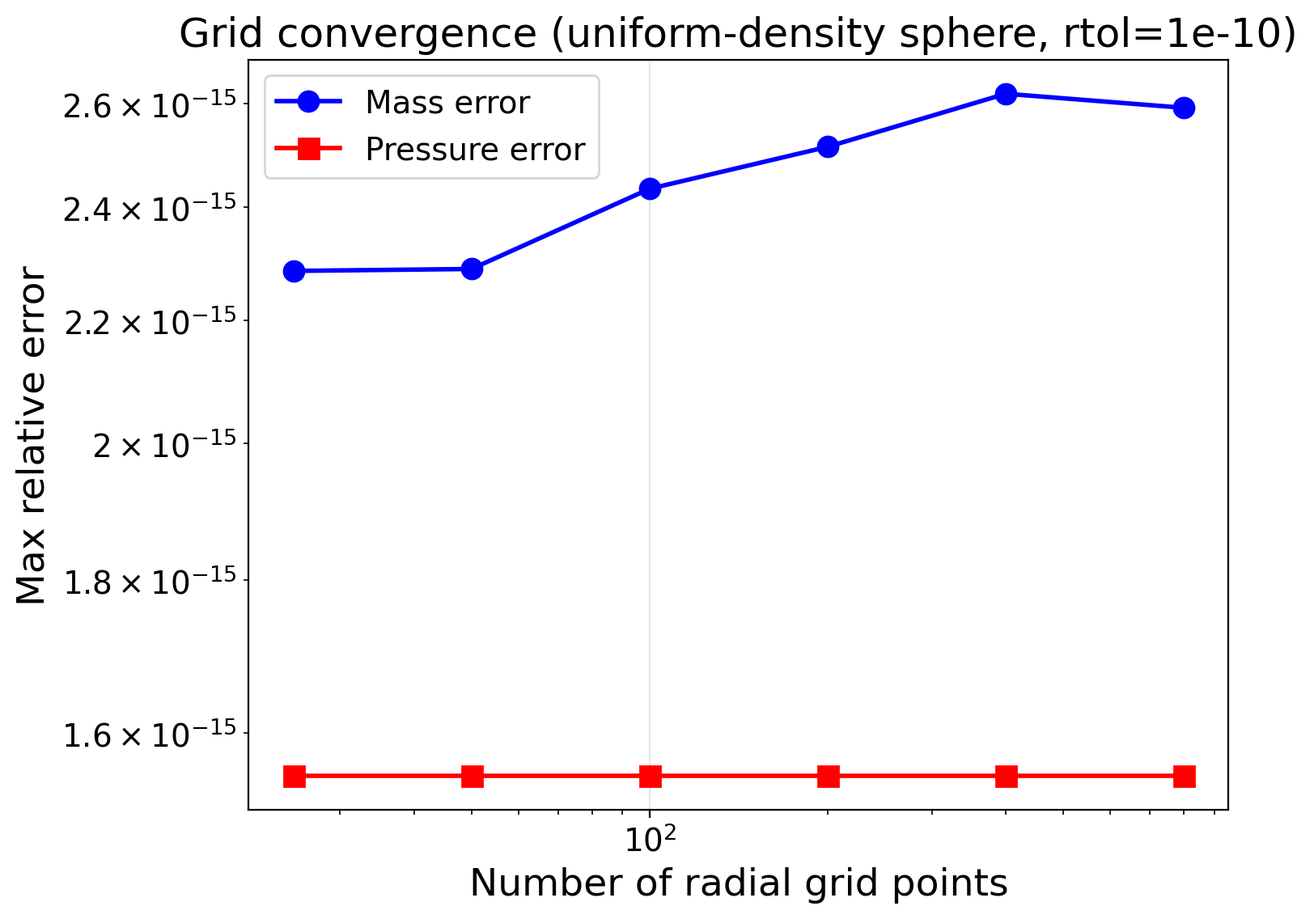
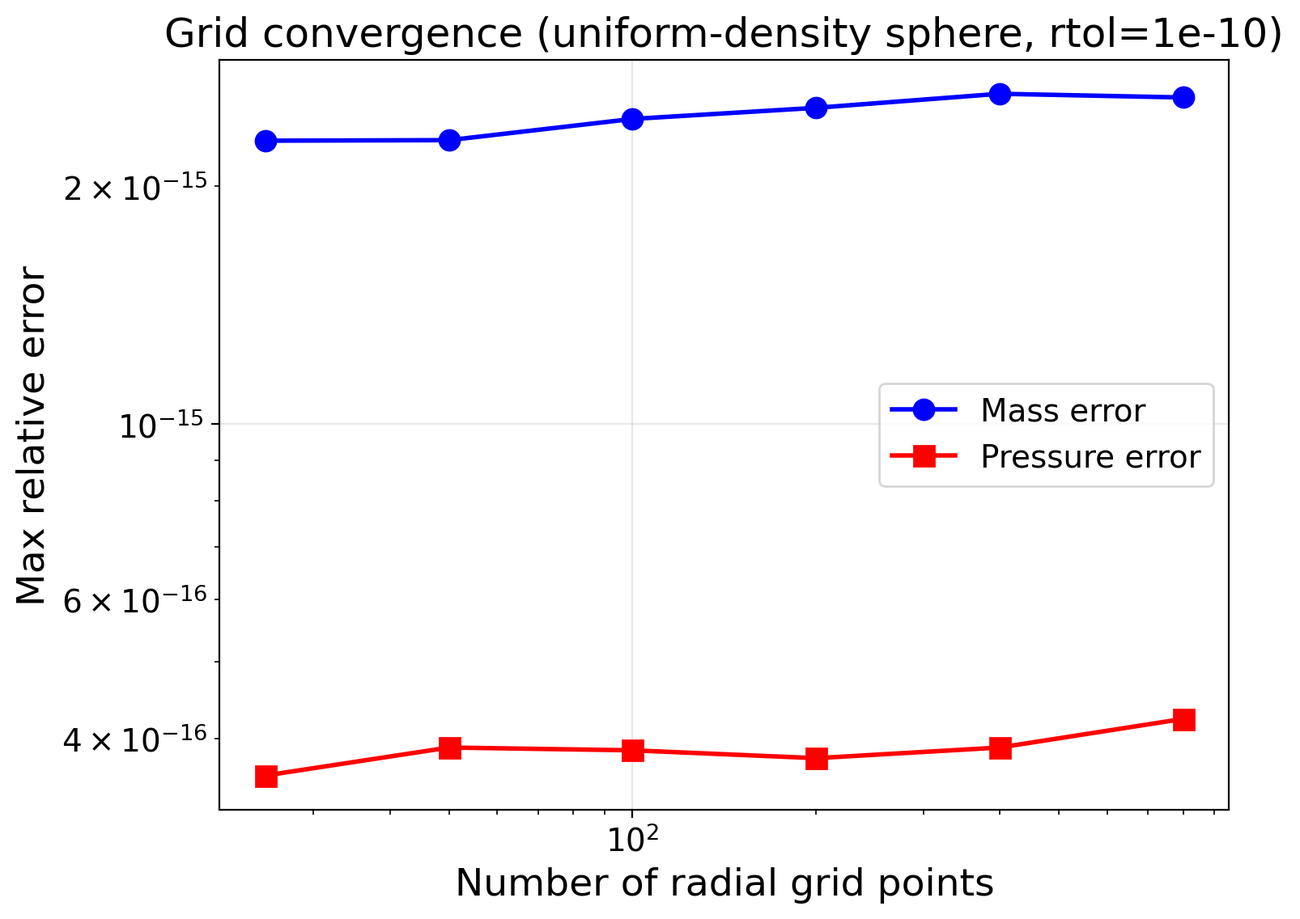
Lay out every hydrostatic structure case for students
Each case of the hydrostatic structure page now says why the check exists, what it tests, how the right answer is known and why it matters, with a reading guide for each plot and the test details in a box; the terms list defines the symbols of the page. The quoted errors match a run of the tests at the tip: the uniform sphere misses by 2e-15 in mass and gravity, the Gauss residual is at most 3.4e-15, the full-solver radius is 0.96512 Earth radii, and the tolerance sweep stays between 2 and 4e-15. The grid convergence figure comes from the current validation script, whose pressure error is about 4e-16. A Known limit states that no case catches a wrong centre limit of dg/dr.

diff --git a/docs/Validation/hydrostatic_structure.md b/docs/Validation/hydrostatic_structure.md
@@ -7,12 +7,19 @@ Validation here means that we run the code on a case where another source gives 
 The test then checks that the code gives that answer within a stated tolerance.
 The right answer comes from closed-form solutions, from conservation laws, from a second implementation of the same equations, or from the pressure that the planet must have at its surface.
 If this part of the code is wrong, every structure that Zalmoxis returns is wrong, also the structures it gives to PROTEUS: the radius of the planet and the pressure and gravity at each depth.
-The cases on the surface boundary condition say why the check exists, what it tests, how we know the right answer and why it matters.
-Their box "Test details" gives the reference, the tolerance, the test id and the command.
+Each case below says why the check exists, what it tests, how we know the right answer and why it matters.
+The box "Test details" at the end of each case gives the reference, the tolerance, the test id and the command.
 The [overview](index.md) lists every case of the tab.
 
-**Terms of the surface boundary cases.**
+**Terms of this page.**
 
+- $r$ and $R$: the radius, from 0 at the centre, and the outer radius of the planet.
+- $M(r)$, $g(r)$, $P(r)$, $\rho(r)$: the mass inside radius $r$ (the enclosed mass, kg), the gravitational acceleration (m/s$^2$), the pressure (Pa) and the density (kg/m$^3$) at radius $r$; $G$ is the gravitational constant.
+- EOS (equation of state): the relation $\rho(P, T)$ between the density, the pressure and the temperature of a material.
+- CMB: the core-mantle boundary.
+- $N$ and `rtol`: the number of radial grid points, and the relative tolerance of the ODE integrator (RK45, an adaptive Runge-Kutta method of order 4 and 5).
+- Relative error: $|x_\mathrm{num} - x_\mathrm{exact}| / |x_\mathrm{exact}|$, the difference between the computed and the exact value, divided by the exact value.
+- Round-off level: a relative error of about $10^{-16}$ to $10^{-13}$, the size of the rounding error of floating-point arithmetic. A result at this level is exact within the precision of the computer.
 - Central pressure $P_c$: the pressure at the centre of the planet, the unknown of the pressure solve.
 - Residual $f(P_c) = P(R) - P_t$: the pressure $P(R)$ at the outer radius $R$ minus the target surface pressure $P_t$.
 - Reached: the integration from a trial $P_c$ reaches the outer radius.
@@ -25,7 +32,8 @@ The [overview](index.md) lists every case of the tab.
 
 ## Governing equations
 
-Zalmoxis solves three coupled ordinary differential equations for the radial structure of a self-gravitating, spherically symmetric body in hydrostatic equilibrium:
+Every case on this page checks one part of the solution of these equations.
+Zalmoxis solves three coupled ordinary differential equations (ODEs) for the radial structure of a self-gravitating, spherically symmetric body in hydrostatic equilibrium:
 
 $$
 \frac{dM}{dr} = 4\pi r^2 \rho(r)
@@ -39,19 +47,30 @@ $$
 \frac{dP}{dr} = -\rho(r)\, g(r)
 $$
 
-where $M(r)$ is the enclosed mass, $g(r)$ is gravitational acceleration, $P(r)$ is pressure, and $\rho(r)$ is density. These are integrated outward from the center ($r = 0$) with initial conditions $M(0) = 0$, $g(0) = 0$, $P(0) = P_c$.
+The first equation adds the mass of each thin shell, the second gives the gravity from the enclosed mass, and the third says that the pressure falls outward by the weight of the material above.
+The integration runs outward from the centre ($r = 0$) with the initial conditions $M(0) = 0$, $g(0) = 0$ and $P(0) = P_c$.
 
-Note that the gravity equation is singular at $r = 0$ due to the $2g/r$ term. L'Hopital's rule gives the analytic limit $dg/dr|_{r=0} = \frac{4}{3}\pi G \rho_c$, which `coupled_odes` in `zalmoxis.structure_model` uses at $r = 0$.
+The gravity equation is singular at $r = 0$ because of the $2g/r$ term.
+L'Hopital's rule gives the limit $dg/dr|_{r=0} = \frac{4}{3}\pi G \rho_c$, and `coupled_odes` in `zalmoxis.structure_model` uses this limit at $r = 0$.
 
-The system is closed by an equation of state $\rho = \rho(P, T)$, but for verification purposes we either fix $\rho$ to a constant (Tests 1-4) or use the Seager et al. (2007) analytic polytrope $\rho(P) = \rho_0 + c P^n$ (Tests 5-7), both of which eliminate any dependence on tabulated EOS data.
+An equation of state $\rho = \rho(P, T)$ closes the system.
+To check the equations without table data, Tests 1 to 4 fix $\rho$ to a constant, and Tests 5 to 7 use the Seager et al. (2007) analytic polytrope $\rho(P) = \rho_0 + c P^n$.
+Tests 5 and 6 are on the [mass-radius page](mass_radius.md).
 
 ## Test 1: Uniform-density sphere
 
-**What it tests:** The ODE integrator in complete isolation from any EOS complexity. By patching `calculate_mixed_density()` to return a constant, we test only the RK45 integration of the three coupled ODEs.
+**Why this check exists.** The integrator of the three equations must use the right coefficients and signs. A wrong factor in $dM/dr$ or $dg/dr$ (for example $2\pi$ in place of $4\pi$, or $g/r$ in place of $2g/r$), or the wrong sign of $dP/dr$, makes the computed mass, gravity or pressure differ from the exact solution, and this test fails.
 
-**Why it matters:** If the ODE coefficients (the $4\pi$ factors, the $2g/r$ singularity handling at $r = 0$, the signs) contain any error, this test will catch it with zero ambiguity. The analytic solution is a textbook result with no free parameters.
+**What it tests.** The density is fixed: the test replaces `calculate_mixed_density()` by a function that returns a constant $\rho$, so no EOS table is used and only the RK45 integration of the three equations is tested. The setup is $\rho = 5000$ kg/m$^3$ (an average rocky planet), $R = 6.4 \times 10^6$ m (about $1\, R_\oplus$), $P_c = 360$ GPa, $N = 300$ radial grid points and `rtol` $= 10^{-10}$. The test makes six checks:
 
-For a sphere of constant density $\rho$, the governing equations have exact closed-form solutions:
+1. **Mass profile:** $|M_\mathrm{num} - M_\mathrm{exact}| / M_\mathrm{exact} < 10^{-6}$ at all $r > 0$.
+2. **Gravity profile:** $|g_\mathrm{num} - g_\mathrm{exact}| / g_\mathrm{exact} < 10^{-6}$ at all $r > 0$.
+3. **Pressure profile:** $|P_\mathrm{num} - P_\mathrm{exact}| / P_\mathrm{exact} < 10^{-6}$ where $P > 0$.
+4. **Central boundary conditions:** $M(0) = 0$, $g(0) = 0$ and $P(0) = P_c$ to machine precision.
+5. **Gravity slope at the centre:** the slope of the computed gravity over the first two grid steps matches $\frac{4}{3}\pi G \rho$ to $< 10^{-4}$.
+6. **Pressure monotonicity:** $dP/dr < 0$ everywhere $P > 0$, as hydrostatic equilibrium requires with positive density and gravity.
+
+**How we know the right answer.** For a sphere of constant density the equations have an exact closed-form solution, a textbook result with no free parameters:
 
 $$
 M(r) = \frac{4}{3}\pi \rho\, r^3, \qquad
@@ -59,41 +78,35 @@ g(r) = \frac{4}{3}\pi G \rho\, r, \qquad
 P(r) = P_c - \frac{2}{3}\pi G \rho^2 r^2
 $$
 
-The mass grows as $r^3$ (volume of a sphere), gravity is linear in $r$ (Gauss's law for a uniform sphere), and pressure is a downward parabola (hydrostatic equilibrium with linearly increasing gravity).
+The mass grows as $r^3$ (the volume of a sphere), gravity is linear in $r$ (Gauss's law for a uniform sphere), and the pressure falls as a parabola (hydrostatic equilibrium with a gravity that grows linearly).
 
-**Setup:** $\rho = 5000$ kg/m$^3$ (representative rocky planet average), $R = 6.4 \times 10^6$ m ($\approx 1\, R_\oplus$), $P_c = 360$ GPa, $N = 300$ radial grid points, `rtol` $= 10^{-10}$.
+**Why it matters.** Every structure that Zalmoxis returns comes from this integrator. An error here enters every profile, for every equation of state.
 
-**Results:** At $N = 300$ the largest relative errors are $3 \times 10^{-15}$ for the mass, $1 \times 10^{-15}$ for gravity and $4 \times 10^{-16}$ for pressure, the round-off level; the test asserts $< 10^{-6}$. The curves are visually indistinguishable:
+![Uniform-density sphere: mass, gravity and pressure against radius, numerical and analytic](../img/validation/uniform_sphere_profiles.png)
 
-![Uniform-density sphere profiles](../img/validation/uniform_sphere_profiles.png)
+**How to read the plot.** The three panels show (a) the enclosed mass, (b) the gravity and (c) the pressure against the radius in km. The solid line is the numerical solution and the dashed line is the analytic solution. A pass means that the two lines lie on top of each other. At $N = 300$ the largest relative errors are $2 \times 10^{-15}$ for the mass and the gravity and $4 \times 10^{-16}$ for the pressure, the round-off level.
 
-Six individual assertions verify specific aspects:
+**Known limit.** This test does not check the value of the centre limit of $dg/dr$: when `coupled_odes` uses $\pi G \rho_c$ in place of $\frac{4}{3}\pi G \rho_c$ at $r = 0$, every case on this page still passes.
 
-1. **Mass profile accuracy:** $|M_\mathrm{num} - M_\mathrm{exact}| / M_\mathrm{exact} < 10^{-6}$ at all $r > 0$
-2. **Gravity profile accuracy:** $|g_\mathrm{num} - g_\mathrm{exact}| / g_\mathrm{exact} < 10^{-6}$ at all $r > 0$
-3. **Pressure profile accuracy:** $|P_\mathrm{num} - P_\mathrm{exact}| / P_\mathrm{exact} < 10^{-6}$ where $P > 0$
-4. **Central boundary conditions:** $M(0) = 0$, $g(0) = 0$, $P(0) = P_c$ to machine precision
-5. **Gravity slope at center:** $dg/dr|_{r=0}$ matches the analytic limit $\frac{4}{3}\pi G \rho$ to $< 10^{-4}$, verifying the singularity handling
-6. **Pressure monotonicity:** $dP/dr < 0$ everywhere $P > 0$, as required by hydrostatic equilibrium with positive density and gravity
-
-- Reference: closed-form solution of the uniform-density sphere
-- Tolerance: `rtol=1e-6` on the mass, gravity and pressure profiles; `rel=1e-4` on the central gravity slope
-- Test id: `tests/test_first_principles.py::TestUniformDensitySphere`
-- Command: `pytest -o "addopts=" tests/test_first_principles.py::TestUniformDensitySphere`
+??? info "Test details"
+    - Reference: closed-form solution of the uniform-density sphere
+    - Tolerance: `rtol=1e-6` on the mass, gravity and pressure profiles; `rel=1e-4` on the central gravity slope
+    - Test id: `tests/test_first_principles.py::TestUniformDensitySphere`
+    - Command: `pytest -o "addopts=" tests/test_first_principles.py::TestUniformDensitySphere`
 
 ## Test 2: Two-layer sphere
 
-**What it tests:** The layer transition logic at the core-mantle boundary (CMB). Zalmoxis assigns each radial shell to a layer (core or mantle) based on the enclosed mass. A density discontinuity at the CMB is the sharpest feature the integrator must handle, and errors in the boundary comparison (e.g., off-by-one in the mass threshold, wrong tolerance for floating-point comparison) would produce visible deviations from the piecewise analytical solution.
+**Why this check exists.** Zalmoxis assigns each radial shell to a layer (core or mantle) by the enclosed mass. If this assignment is wrong, for example if the core ends at 90 % of its mass, the mass profile differs from the piecewise exact solution and this test fails. Wrong coefficients in $dM/dr$ or $dg/dr$ also make it fail.
 
-**Setup:** A two-layer sphere with constant densities $\rho_c = 13{,}000$ kg/m$^3$ (iron-like core) and $\rho_m = 4000$ kg/m$^3$ (silicate-like mantle), $M_p = 1\, M_\oplus$, core mass fraction $f_c = 0.325$. The CMB radius is:
+**What it tests.** A sphere of two layers with constant densities: $\rho_c = 13{,}000$ kg/m$^3$ (an iron-like core) and $\rho_m = 4000$ kg/m$^3$ (a silicate-like mantle), with planet mass $M_p = 1\, M_\oplus$ and core mass fraction $f_c = 0.325$. The density jumps at the core-mantle boundary (CMB), the sharpest feature that the integrator must handle. The CMB radius is
 
 $$
 R_\mathrm{cmb} = \left(\frac{3\, f_c\, M_p}{4\pi \rho_c}\right)^{1/3} = 3291 \text{ km}
 $$
 
-This is close to Earth's actual CMB radius of 3480 km, and the total planet radius is 6513 km (1.02 times 6371 km). The central pressure of this profile, 380 GPa, comes from integrating the hydrostatic equation over the known density profile; the integration starts at 5% above it, 399 GPa, so that the pressure stays positive out to the surface.
+This is close to the Earth's CMB radius of 3480 km, and the planet radius is 6513 km (1.02 times 6371 km). The central pressure of this profile, 380 GPa, comes from integrating the hydrostatic equation over the known density profile. The integration starts 5 % above it, at 399 GPa, so that the pressure stays positive out to the surface. The test compares the enclosed mass with the exact solution and checks Gauss's law ($g = GM/r^2$) in both layers.
 
-The enclosed mass profile is piecewise:
+**How we know the right answer.** With two constant densities, the enclosed mass has an exact piecewise solution:
 
 $$
 M(r) = \begin{cases}
@@ -102,94 +115,108 @@ f_c M_p + \frac{4}{3}\pi \rho_m (r^3 - R_\mathrm{cmb}^3) & r > R_\mathrm{cmb}
 \end{cases}
 $$
 
-**Results:** The largest relative error of the mass profile against the piecewise formula is $3 \times 10^{-9}$, and Gauss's law ($g = GM/r^2$) holds to $1 \times 10^{-10}$ across both layers including the CMB transition; the test asserts $< 10^{-5}$ and $< 10^{-4}$. The left panel shows the mass profile with the CMB location marked; the right panel overlays the numerical gravity with the Gauss's law prediction:
+**Why it matters.** Every Zalmoxis planet has at least a core and a mantle. A wrong layer boundary puts the wrong material at a radius, so the density, the radius and the pressure at the CMB are wrong.
 
-![Two-layer sphere](../img/validation/two_layer_sphere.png)
+![Two-layer sphere: enclosed mass against the piecewise solution, and gravity against Gauss's law](../img/validation/two_layer_sphere.png)
 
-The smooth transition across the CMB confirms that `get_layer_mixture()` correctly assigns shells to layers and that the ODE integrator handles the density discontinuity without introducing spurious oscillations.
+**How to read the plot.** Panel (a) shows the enclosed mass against the radius in km, numerical (solid) and analytic (dashed), with the CMB as a dotted line. Panel (b) shows the numerical gravity and $GM(r)/r^2$. A pass means that the lines lie on top of each other on both sides of the CMB. The largest relative error of the mass is $3 \times 10^{-9}$, and Gauss's law holds to $1 \times 10^{-10}$ in both layers, so `get_layer_mixture()` assigns the shells correctly and the integrator crosses the density jump without oscillations.
 
-- Reference: piecewise closed-form solution of the two-layer sphere
-- Tolerance: `rtol=1e-5` on the mass profile, `rtol=1e-4` on Gauss's law
-- Test id: `tests/test_first_principles.py::TestTwoLayerSphere`
-- Command: `pytest -o "addopts=" tests/test_first_principles.py::TestTwoLayerSphere`
+??? info "Test details"
+    - Reference: piecewise closed-form solution of the two-layer sphere
+    - Tolerance: `rtol=1e-5` on the mass profile, `rtol=1e-4` on Gauss's law
+    - Test id: `tests/test_first_principles.py::TestTwoLayerSphere`
+    - Command: `pytest -o "addopts=" tests/test_first_principles.py::TestTwoLayerSphere`
 
 ## Test 3: Conservation diagnostics
 
-**What it tests:** Pointwise satisfaction of two fundamental conservation laws that must hold for any physically consistent solution, independent of the EOS.
+**Why this check exists.** Zalmoxis integrates $M(r)$ and $g(r)$ as two separate ODE components; it does not compute $g$ from $M$. A wrong factor in $dM/dr$ or $dg/dr$ makes them disagree, and the Gauss's law check fails. A wrong sign of $dP/dr$ breaks hydrostatic balance, and the balance check fails.
 
-**Gauss's law:** $g(r) = G\,M(r) / r^2$ for all $r > 0$. This is an algebraic identity relating the gravitational acceleration to the enclosed mass. Since Zalmoxis integrates both $M(r)$ and $g(r)$ as separate ODE components (rather than computing $g$ algebraically from $M$), any drift in the integration would cause the two to disagree. The relative residual $|g - GM/r^2| / (GM/r^2)$ quantifies this drift.
+**What it tests.** Two conservation laws must hold at every point of any physically consistent solution, for any EOS. The test checks them on the uniform-density sphere of Test 1.
 
-**Hydrostatic balance:** $dP/dr + \rho\, g = 0$ at every interior point. This is the defining equation of the solver; the residual is evaluated with central finite differences. For the uniform sphere $P(r)$ is a parabola, so the central difference is exact and the residual shows the integration error alone.
+- **Gauss's law:** $g(r) = G\,M(r) / r^2$ for all $r > 0$. The relative residual $|g - GM/r^2| / (GM/r^2)$ measures how far the two integrated components drift apart.
+- **Hydrostatic balance:** $dP/dr + \rho\, g = 0$ at every interior point. This is the defining equation of the solver. The test computes $dP/dr$ by central finite differences and divides the residual by $P_\mathrm{scale} = \frac{2}{3}\pi G \rho^2 R$. For the uniform sphere $P(r)$ is a parabola, so the central difference is exact and the residual shows the integration error alone.
 
-**Results:** Both residuals are at round-off level at all radii, far below the asserted $10^{-5}$ and $10^{-4}$:
+**How we know the right answer.** Gauss's law and hydrostatic balance follow from the equations themselves, so the exact residual is zero.
 
-![Conservation diagnostics](../img/validation/conservation_diagnostics.png)
+**Why it matters.** These laws must hold for every planet that Zalmoxis computes, also where no closed-form solution exists.
 
-On the 500-point grid of the figure, the Gauss's law residual (left) is at most $2.7 \times 10^{-15}$ and the hydrostatic residual (right) at most $1.4 \times 10^{-13}$.
+![Conservation diagnostics: Gauss's law residual and hydrostatic balance residual against radius](../img/validation/conservation_diagnostics.png)
 
-- Reference: Gauss's law $g = GM/r^2$ and hydrostatic balance $dP/dr + \rho g = 0$
-- Tolerance: `rtol=1e-5` on Gauss's law, largest relative hydrostatic residual below `1e-4`
-- Test id: `tests/test_first_principles.py::TestGaussLaw`, `tests/test_first_principles.py::TestHydrostaticBalance`
-- Command: `pytest -o "addopts=" tests/test_first_principles.py::TestGaussLaw tests/test_first_principles.py::TestHydrostaticBalance`
+**How to read the plot.** Panel (a) shows the relative Gauss's law residual and panel (b) the relative hydrostatic residual against the radius in km, on log scales. A pass means that both stay far below the tolerances of $10^{-5}$ and $10^{-4}$. On the 500-point grid of the figure the Gauss's law residual is at most $3.4 \times 10^{-15}$ and the hydrostatic residual at most $1.4 \times 10^{-13}$, the round-off level.
+
+??? info "Test details"
+    - Reference: Gauss's law $g = GM/r^2$ and hydrostatic balance $dP/dr + \rho g = 0$
+    - Tolerance: `rtol=1e-5` on Gauss's law, largest relative hydrostatic residual below `1e-4`
+    - Test id: `tests/test_first_principles.py::TestGaussLaw`, `tests/test_first_principles.py::TestHydrostaticBalance`
+    - Command: `pytest -o "addopts=" tests/test_first_principles.py::TestGaussLaw tests/test_first_principles.py::TestHydrostaticBalance`
 
 ## Test 4: Gravitational binding energy
 
-**What it tests:** Global consistency of the mass and density profiles via an integral quantity.
+**Why this check exists.** Tests 1 to 3 check the profiles point by point. An integral over the whole planet checks that the mass and density profiles agree as a whole. A wrong factor in $dM/dr$ makes this test fail.
 
-The gravitational binding energy, the energy required to disperse the planet to infinity, is:
+**What it tests.** The gravitational binding energy, the energy needed to disperse the planet to infinity, is
 
 $$
 E_\mathrm{grav} = -\int_0^R \frac{G\,M(r)}{r}\, 4\pi r^2 \rho\, dr
 $$
 
-For uniform density, this integral evaluates to the well-known result $E_\mathrm{grav} = -\frac{3}{5}\, G\, M_p^2 / R$. Numerical trapezoidal integration over the $M(r)$ and $\rho(r)$ profiles ($N = 500$) agrees with the analytical value to $7 \times 10^{-6}$; the test asserts $< 1\%$.
+The test integrates it with the trapezoidal rule over the $M(r)$ and $\rho(r)$ profiles of the uniform-density sphere ($N = 500$).
 
-This test is complementary to Tests 1-3: it verifies that errors do not cancel when integrated over the full planetary volume.
+**How we know the right answer.** For uniform density the integral has the closed form $E_\mathrm{grav} = -\frac{3}{5}\, G\, M_p^2 / R$. The numerical value agrees with it to $7 \times 10^{-6}$; the test asserts $< 1\%$.
 
-- Reference: uniform-sphere binding energy $E_\mathrm{grav} = -\frac{3}{5} G M_p^2 / R$
-- Tolerance: `rel=0.01`
-- Test id: `tests/test_first_principles.py::TestGravitationalBindingEnergy`
-- Command: `pytest -o "addopts=" tests/test_first_principles.py::TestGravitationalBindingEnergy`
+**Why it matters.** The binding energy is an integral of the whole profile, the kind of quantity that the energy budget of a planet uses.
+
+??? info "Test details"
+    - Reference: uniform-sphere binding energy $E_\mathrm{grav} = -\frac{3}{5} G M_p^2 / R$
+    - Tolerance: `rel=0.01`
+    - Test id: `tests/test_first_principles.py::TestGravitationalBindingEnergy`
+    - Command: `pytest -o "addopts=" tests/test_first_principles.py::TestGravitationalBindingEnergy`
 
 ## n = 1 polytrope
 
-**What it tests:** `solve_structure` with the `Analytic:polytrope_n1` verification material, $P = K \rho^2$, against the closed-form Lane-Emden solution $\rho(r) = \rho_c \sin\xi / \xi$ with $\xi = \pi r / R$. For $n = 1$ the radius $R = \pi \sqrt{K / 2\pi G}$ depends on $K$ only, not on the central density; $K$ is set so that $R$ is one Earth radius.
+**Why this check exists.** Tests 1 to 4 fix the density. This case lets the density follow the pressure through an equation of state, as in a real planet. A wrong factor in $dM/dr$ or $dg/dr$, or the wrong sign of $dP/dr$, moves the surface radius or the integrated mass, and the test fails.
 
-**Setup:** 600 radial points from the centre to $1.03\,R_\oplus$; the surface radius comes from extrapolating the density to zero.
+**What it tests.** `solve_structure` with the `Analytic:polytrope_n1` verification material, $P = K \rho^2$ (a polytrope of index $n = 1$, with $K$ a constant). The test runs 600 radial points from the centre to $1.03\,R_\oplus$; the surface radius comes from extrapolating the density to zero. For $n = 1$ the radius $R = \pi \sqrt{K / 2\pi G}$ depends on $K$ only, not on the central density; $K$ is set so that $R$ is one Earth radius.
 
-- Reference: the analytic $n = 1$ Lane-Emden solution (Chandrasekhar 1939, reference named in the test docstring)
-- Tolerance: surface radius within `rel=1e-4` of $1\,R_\oplus$; integrated mass within `rel=1e-4` of the seeded $2\,M_\oplus$; radius at $1\,M_\oplus$ and $2\,M_\oplus$ equal within `rel=1e-4` and within `rel=1e-3` of $1\,R_\oplus$
-- Test id: `tests/test_polytrope_verification.py`
-- Command: `pytest -o "addopts=" tests/test_polytrope_verification.py`
+**How we know the right answer.** For $n = 1$ the Lane-Emden equation of a polytrope has the closed-form solution $\rho(r) = \rho_c \sin\xi / \xi$ with $\xi = \pi r / R$.
+
+**Why it matters.** This is the only case on this page where the density depends on the pressure, so it checks the coupling of the integrator to an equation of state.
+
+??? info "Test details"
+    - Reference: the analytic $n = 1$ Lane-Emden solution (Chandrasekhar 1939, reference named in the test docstring)
+    - Tolerance: surface radius within `rel=1e-4` of $1\,R_\oplus$; integrated mass within `rel=1e-4` of the seeded $2\,M_\oplus$; radius at $1\,M_\oplus$ and $2\,M_\oplus$ equal within `rel=1e-4` and within `rel=1e-3` of $1\,R_\oplus$
+    - Test id: `tests/test_polytrope_verification.py`
+    - Command: `pytest -o "addopts=" tests/test_polytrope_verification.py`
 
 ## Test 7: Numerical convergence
 
-**What it tests:** That the error does not grow as the grid is refined and the tolerances are tightened, and that the full solver gives the same radius on two grids.
+**Why this check exists.** A finer grid or a tighter tolerance must not make the solution worse. If the error grew with $N$ or with a smaller `rtol`, the integrator settings would hide a fault. A wrong factor in $dM/dr$ or $dg/dr$, or the wrong sign of $dP/dr$, also makes the grid convergence test fail.
 
-### Grid convergence
+**What it tests.** The uniform-density sphere of Test 1 on several grids and with several tolerances, and the full solver (Picard iteration and Brent root-finding) with the Analytic EOS at $1\,M_\oplus$ on 3 grids.
 
-Running the uniform-density sphere at $N = 25, 50, 100, 200, 400, 800$ with `rtol` $= 10^{-10}$:
+- **Grid convergence:** the uniform sphere at $N$ from 50 to 400 (the figure uses 25 to 800) with `rtol` $= 10^{-10}$. The mass error is $2$ to $3 \times 10^{-15}$ and the pressure error about $4 \times 10^{-16}$ at every $N$. The uniform-sphere solution is a cubic and a parabola in $r$, which the integrator reproduces to round-off on every grid, so this case shows no convergence rate.
+- **Full solver:** the planet radius is the same, $0.96512\,R_\oplus$, at $N = 100$, 200 and 400.
+- **Tolerance convergence:** for `rtol` from $10^{-6}$ to $10^{-12}$ at $N = 200$ the mass error stays between $2$ and $4 \times 10^{-15}$, with no trend: the error is at round-off level for every tolerance tested.
 
-![Grid convergence](../img/validation/grid_convergence.png)
+**How we know the right answer.** The closed-form solution of Test 1 gives the error. For the full solver, the radius on the finer grid ($N = 400$) is the reference for the radius at $N = 200$ (self-consistency).
 
-The mass error is $2$ to $3 \times 10^{-15}$ and the pressure error about $4 \times 10^{-16}$ at every $N$ from 25 to 800. The uniform-sphere solution is a cubic and a parabola in $r$, which the integrator reproduces to round-off on every grid, so this case shows no convergence rate.
+**Why it matters.** The default grid and tolerances of Zalmoxis must give a result that does not change when they are refined.
 
-For the full solver (including Picard iteration and Brent root-finding) at $1\,M_\oplus$, the planet radius is the same, $0.96544\,R_\oplus$, at $N = 100$, 200 and 400; the test asserts that $N = 200$ and $N = 400$ agree to $< 1\%$.
+![Grid convergence: largest relative mass and pressure error against the number of radial grid points](../img/validation/grid_convergence.png)
 
-### Tolerance convergence
+**How to read the plot.** The x-axis is the number of radial grid points and the y-axis the largest relative error, both on log scales. A pass means that the errors do not grow with $N$.
 
-For `rtol` from $10^{-6}$ to $10^{-12}$ at $N = 200$ the mass error stays between $1.5$ and $3.5 \times 10^{-15}$, with no trend: the error is at round-off level for every tolerance tested.
-
-- Reference: closed-form solution of the uniform-density sphere; for the full solver, the radius at $N = 200$ against $N = 400$ (self-consistency)
-- Tolerance: the error may rise by at most a factor 1.5 from one grid or tolerance step to the next above a `1e-13` floor; mass error below `1e-8` and pressure error below `1e-6` at $N = 400$; full-solver radius at $N = 200$ and $N = 400$ within 1%; mass error below `1e-10` at `rtol=1e-12`
-- Test id: `tests/test_first_principles.py::TestGridConvergence`, `tests/test_first_principles.py::TestToleranceConvergence`
-- Command: `pytest -o "addopts=" tests/test_first_principles.py::TestGridConvergence tests/test_first_principles.py::TestToleranceConvergence`
+??? info "Test details"
+    - Reference: closed-form solution of the uniform-density sphere; for the full solver, the radius at $N = 200$ against $N = 400$ (self-consistency)
+    - Tolerance: the error may rise by at most a factor 1.5 from one grid or tolerance step to the next above a `1e-13` floor; mass error below `1e-8` and pressure error below `1e-6` at $N = 400$; full-solver radius at $N = 200$ and $N = 400$ within 1%; mass error below `1e-10` at `rtol=1e-12`
+    - Test id: `tests/test_first_principles.py::TestGridConvergence`, `tests/test_first_principles.py::TestToleranceConvergence`
+    - Command: `pytest -o "addopts=" tests/test_first_principles.py::TestGridConvergence tests/test_first_principles.py::TestToleranceConvergence`
 
 ## JAX and numpy right-hand sides
 
-**What it tests:** The optional JAX path (`use_jax = True`) evaluates the right-hand side of the structure equations in `zalmoxis.jax_eos.rhs.coupled_odes_jax`. These cases compare it with the numpy `zalmoxis.structure_model.coupled_odes` on the same states. Two implementations of the same equations must give the same $dM/dr$, $dg/dr$ and $dP/dr$, so this is a cross-code check.
+**Why this check exists.** The optional JAX path (`use_jax = True`) evaluates the right-hand side of the structure equations in its own code, `zalmoxis.jax_eos.rhs.coupled_odes_jax`. If it differs from the numpy `zalmoxis.structure_model.coupled_odes` by more than the tolerance, a JAX run gives another structure than a numpy run, and these tests fail.
 
-**Setup:** The table cases draw random states with a fixed seed: $r$ from $10^5$ to $6.4 \times 10^6$ m, $M$ from 0 to $1\, M_\oplus$, $g$ from 0.5 to 25 m/s$^2$ and $P$ from $10^6$ to $3 \times 10^{11}$ Pa, with a PALEOS iron core and a PALEOS MgSiO$_3$ mantle. A state counts when both implementations return a nonzero right-hand side. JAX must never return a nonzero value where numpy returns zero; numpy may return a nonzero value where JAX returns zero in at most 4 of 200 states (the nearest-neighbour fallback of the numpy tables, which the JAX path does not have); more than 100 states must count. The synthetic cases build small tables in memory, so they need no EOS files and run in the unit tier.
+**What it tests.** The cases compare $dM/dr$, $dg/dr$ and $dP/dr$ of the two codes on the same states. The table cases draw random states with a fixed seed: $r$ from $10^5$ to $6.4 \times 10^6$ m, $M$ from 0 to $1\, M_\oplus$, $g$ from 0.5 to 25 m/s$^2$ and $P$ from $10^6$ to $3 \times 10^{11}$ Pa, with a PALEOS iron core and a PALEOS MgSiO$_3$ mantle. A state counts when both implementations return a nonzero right-hand side. JAX must never return a nonzero value where numpy returns zero; numpy may return a nonzero value where JAX returns zero in at most 4 of 200 states (the nearest-neighbour fallback of the numpy tables, which the JAX path does not have); more than 100 states must count. The synthetic cases build small tables in memory, so they need no EOS files and run in the unit tier.
 
 | Test id | Mantle | Tolerance | Tier |
 |---|---|---|---|
@@ -200,17 +227,20 @@ For `rtol` from $10^{-6}$ to $10^{-12}$ at $N = 200$ the mass error stays betwee
 | `tests/test_jax_parity_synthetic.py::test_unified_kernel_parity_synthetic` | synthetic unified table, density kernel | `rel=1e-12` | unit |
 | `tests/test_jax_parity_synthetic.py::test_rhs_parity_synthetic_unified_wet_and_dry` | synthetic unified mantle, dry and wet | `rtol=1e-10` | unit |
 
-### Plot: dry unified mantle
+**How we know the right answer.** Two codes of the same equations must give the same $dM/dr$, $dg/dr$ and $dP/dr$, so the numpy `coupled_odes` is the reference (a cross-code check).
+
+**Why it matters.** Every run with `use_jax = True` integrates the structure with the JAX right-hand side, also when PROTEUS calls Zalmoxis on the JAX path.
 
 ![Relative difference between the JAX and numpy right-hand sides](../assets/validation/jax_unified_mantle_dry_parity.svg#only-light){ width="80%" }
 ![Relative difference between the JAX and numpy right-hand sides](../assets/validation/jax_unified_mantle_dry_parity_dark.svg#only-dark){ width="80%" }
 
-Largest relative difference of the three right-hand-side terms between `coupled_odes_jax` and `coupled_odes` at each compared state (markers), against the pressure of that state, for the PALEOS iron core and the unified PALEOS MgSiO$_3$ mantle. The dashed line is the tolerance.
+**How to read the plot.** Each marker is one compared state of the dry unified mantle case: the largest relative difference of the three right-hand-side terms between `coupled_odes_jax` and `coupled_odes`, against the pressure of that state, for the PALEOS iron core and the unified PALEOS MgSiO$_3$ mantle. The dashed line is the tolerance. A pass means that every marker lies below the dashed line.
 
-- Reference: numpy `coupled_odes` (cross-code check).
-- Tolerance: largest relative difference `1e-6` over all compared states.
-- Test id: `tests/test_jax_unified_mantle_parity.py::test_unified_mantle_dry_parity`
-- Command: `pytest -m reference_pinned tests/test_jax_unified_mantle_parity.py --validation-plots`
+??? info "Test details"
+    - Reference: numpy `coupled_odes` (cross-code check).
+    - Tolerance: largest relative difference `1e-6` over all compared states.
+    - Test id: `tests/test_jax_unified_mantle_parity.py::test_unified_mantle_dry_parity`
+    - Command: `pytest -m reference_pinned tests/test_jax_unified_mantle_parity.py --validation-plots`
 
 ## Surface boundary condition of the pressure solve
 
@@ -263,7 +293,8 @@ A second test checks the same rule with real structure solves. It uses the Analy
 
 ## Reproducing the results
 
-The first-principles figures can be made again, as PDF files, with:
+Every figure on this page can be made again from the code.
+The first-principles figures (Tests 1, 2, 3 and 7) come out as PDF files with:
 
 ```console
 python -m tools.validation.run_first_principles_validation

diff --git a/docs/Validation/index.md b/docs/Validation/index.md
@@ -34,7 +34,7 @@ All tests are implemented in [`tests/test_first_principles.py`](https://github.c
 
 | Test | Target | Key metric | Result |
 |------|--------|------------|--------|
-| 1. Uniform sphere | ODE integration | $\|M_\mathrm{num} - M_\mathrm{exact}\|/M_\mathrm{exact}$ | $3 \times 10^{-15}$ (test: $< 10^{-6}$) |
+| 1. Uniform sphere | ODE integration | $\|M_\mathrm{num} - M_\mathrm{exact}\|/M_\mathrm{exact}$ | $2 \times 10^{-15}$ (test: $< 10^{-6}$) |
 | 2. Two-layer sphere | Layer transitions | $\|M_\mathrm{num} - M_\mathrm{exact}\|/M_\mathrm{exact}$ | $3 \times 10^{-9}$ (test: $< 10^{-5}$) |
 | 3. Conservation | Gauss + hydrostatic | Pointwise residuals | $\le 1.4 \times 10^{-13}$ (test: $< 10^{-5}$, $< 10^{-4}$) |
 | 4. Binding energy | Energy integral | $\|E_\mathrm{num} - E_\mathrm{exact}\|/\|E_\mathrm{exact}\|$ | $7 \times 10^{-6}$ (test: $< 1\%$) |
